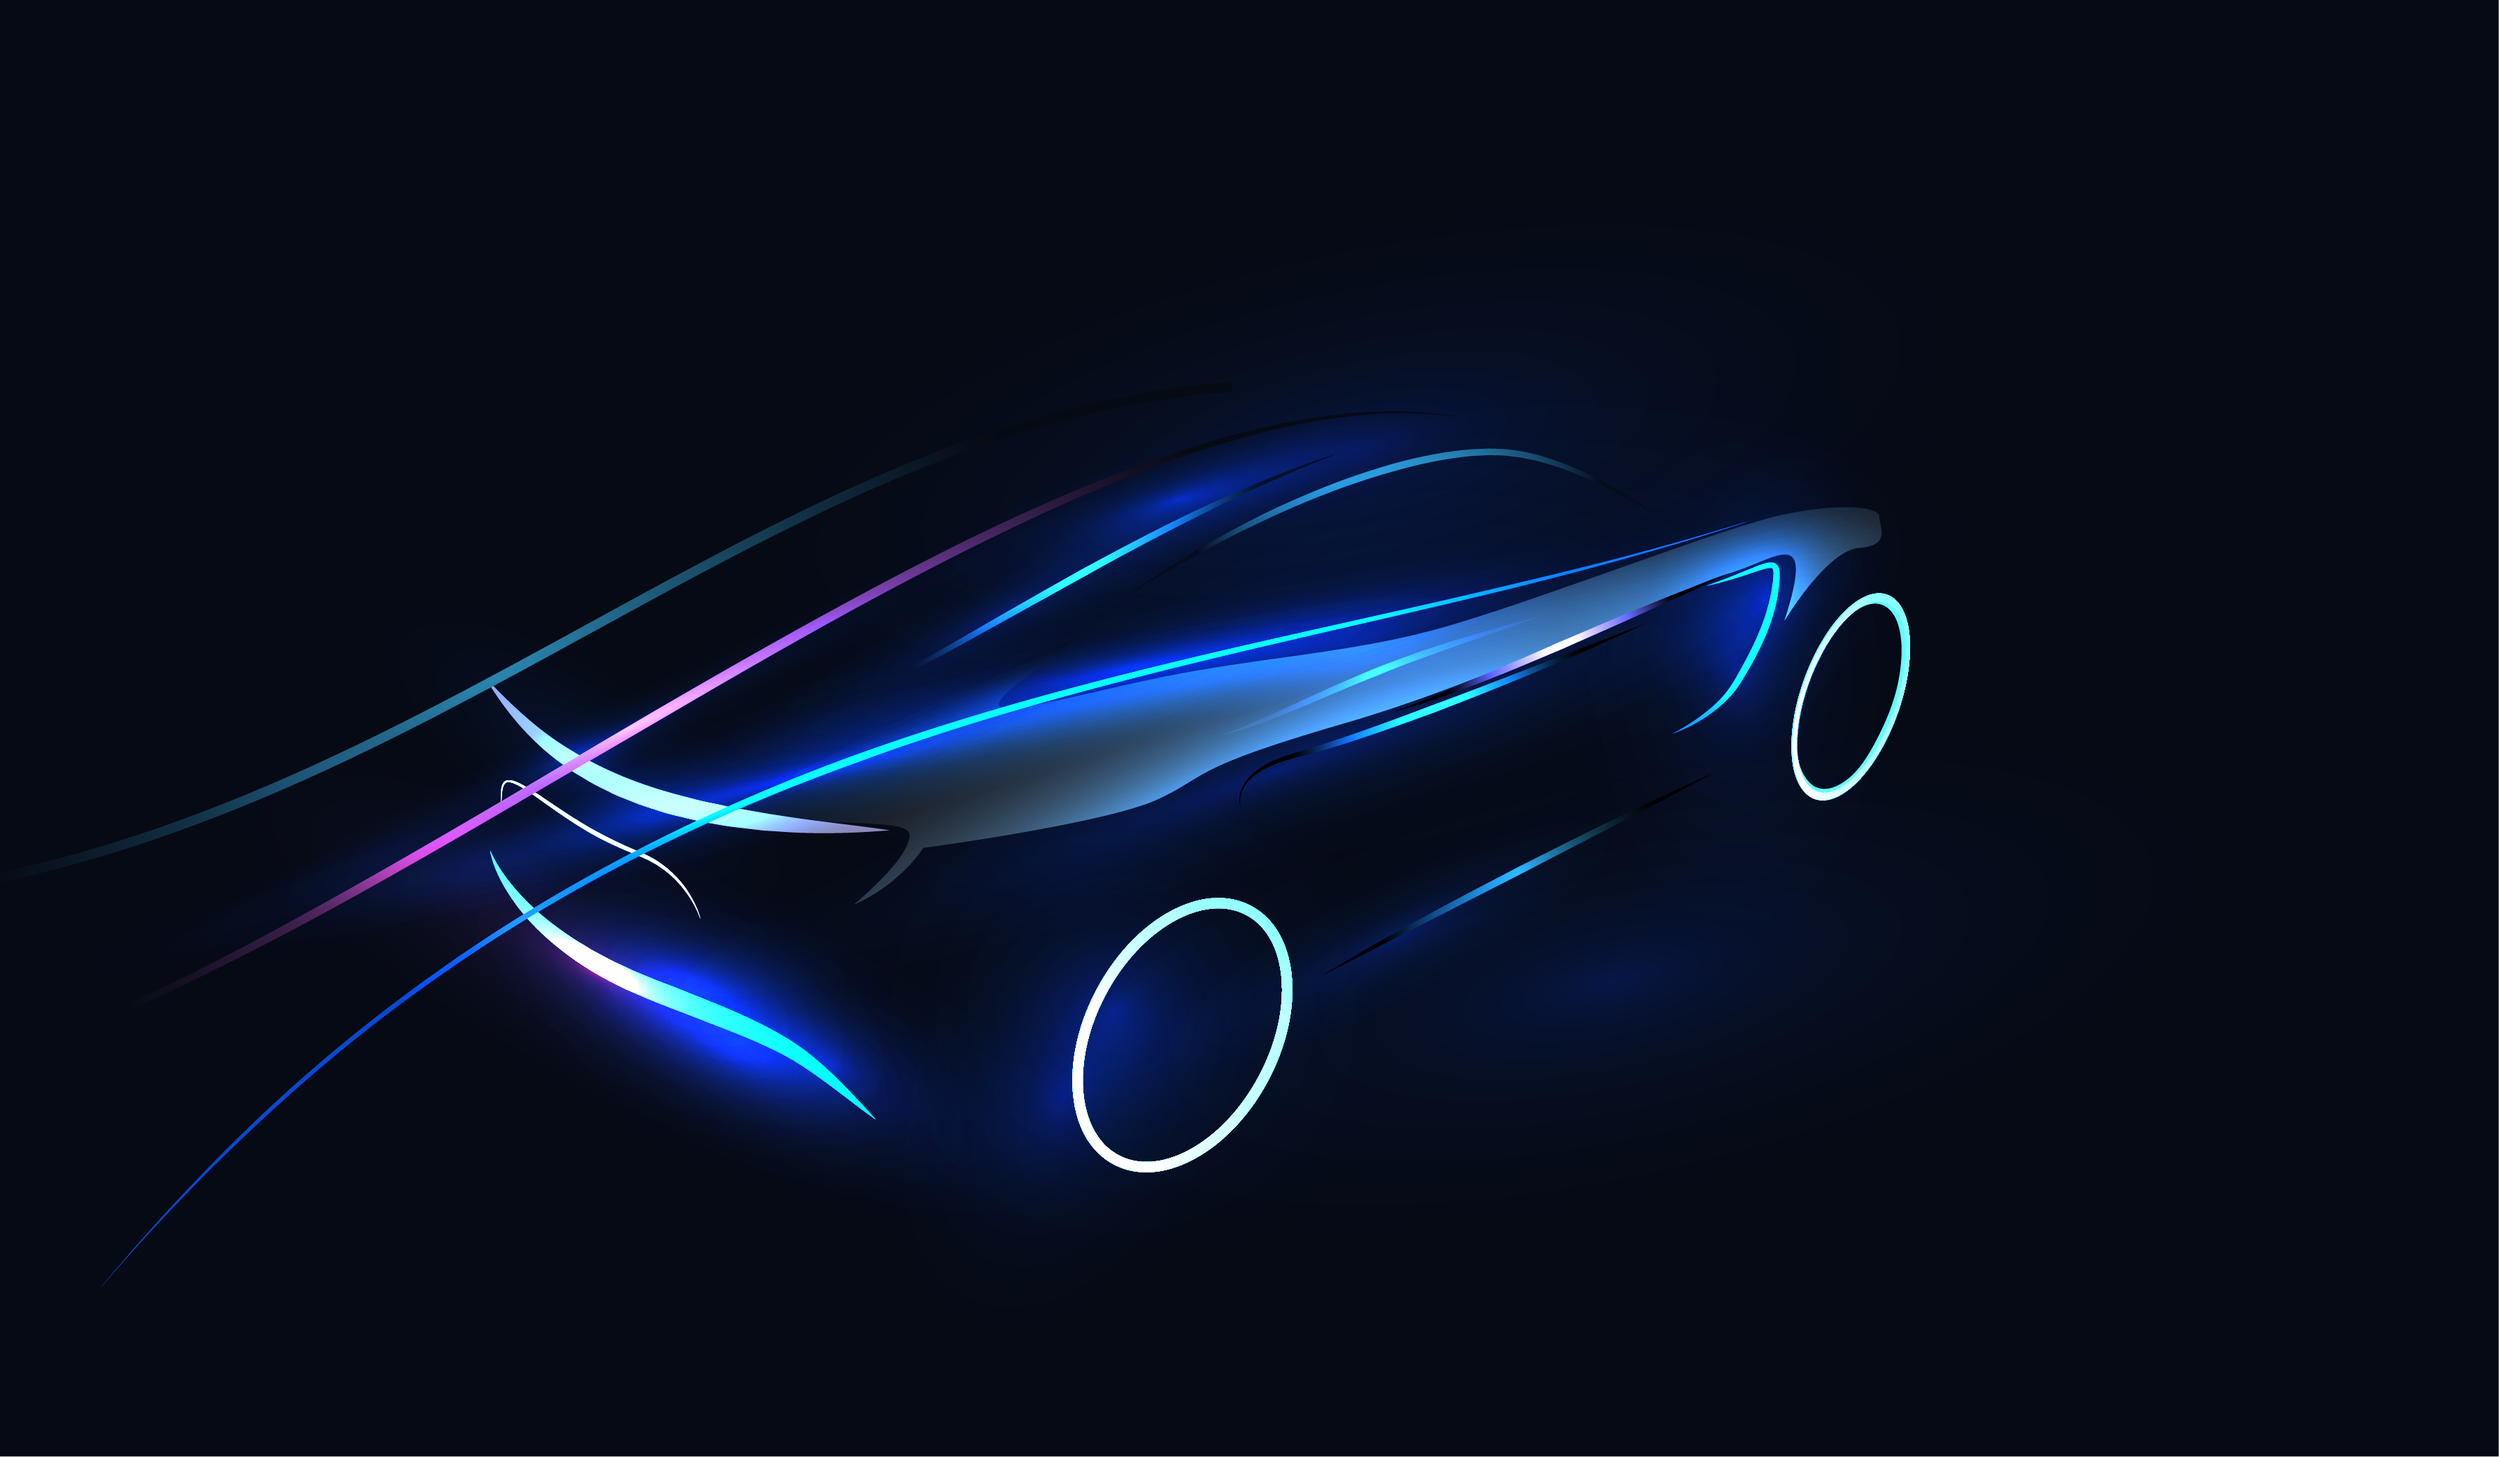
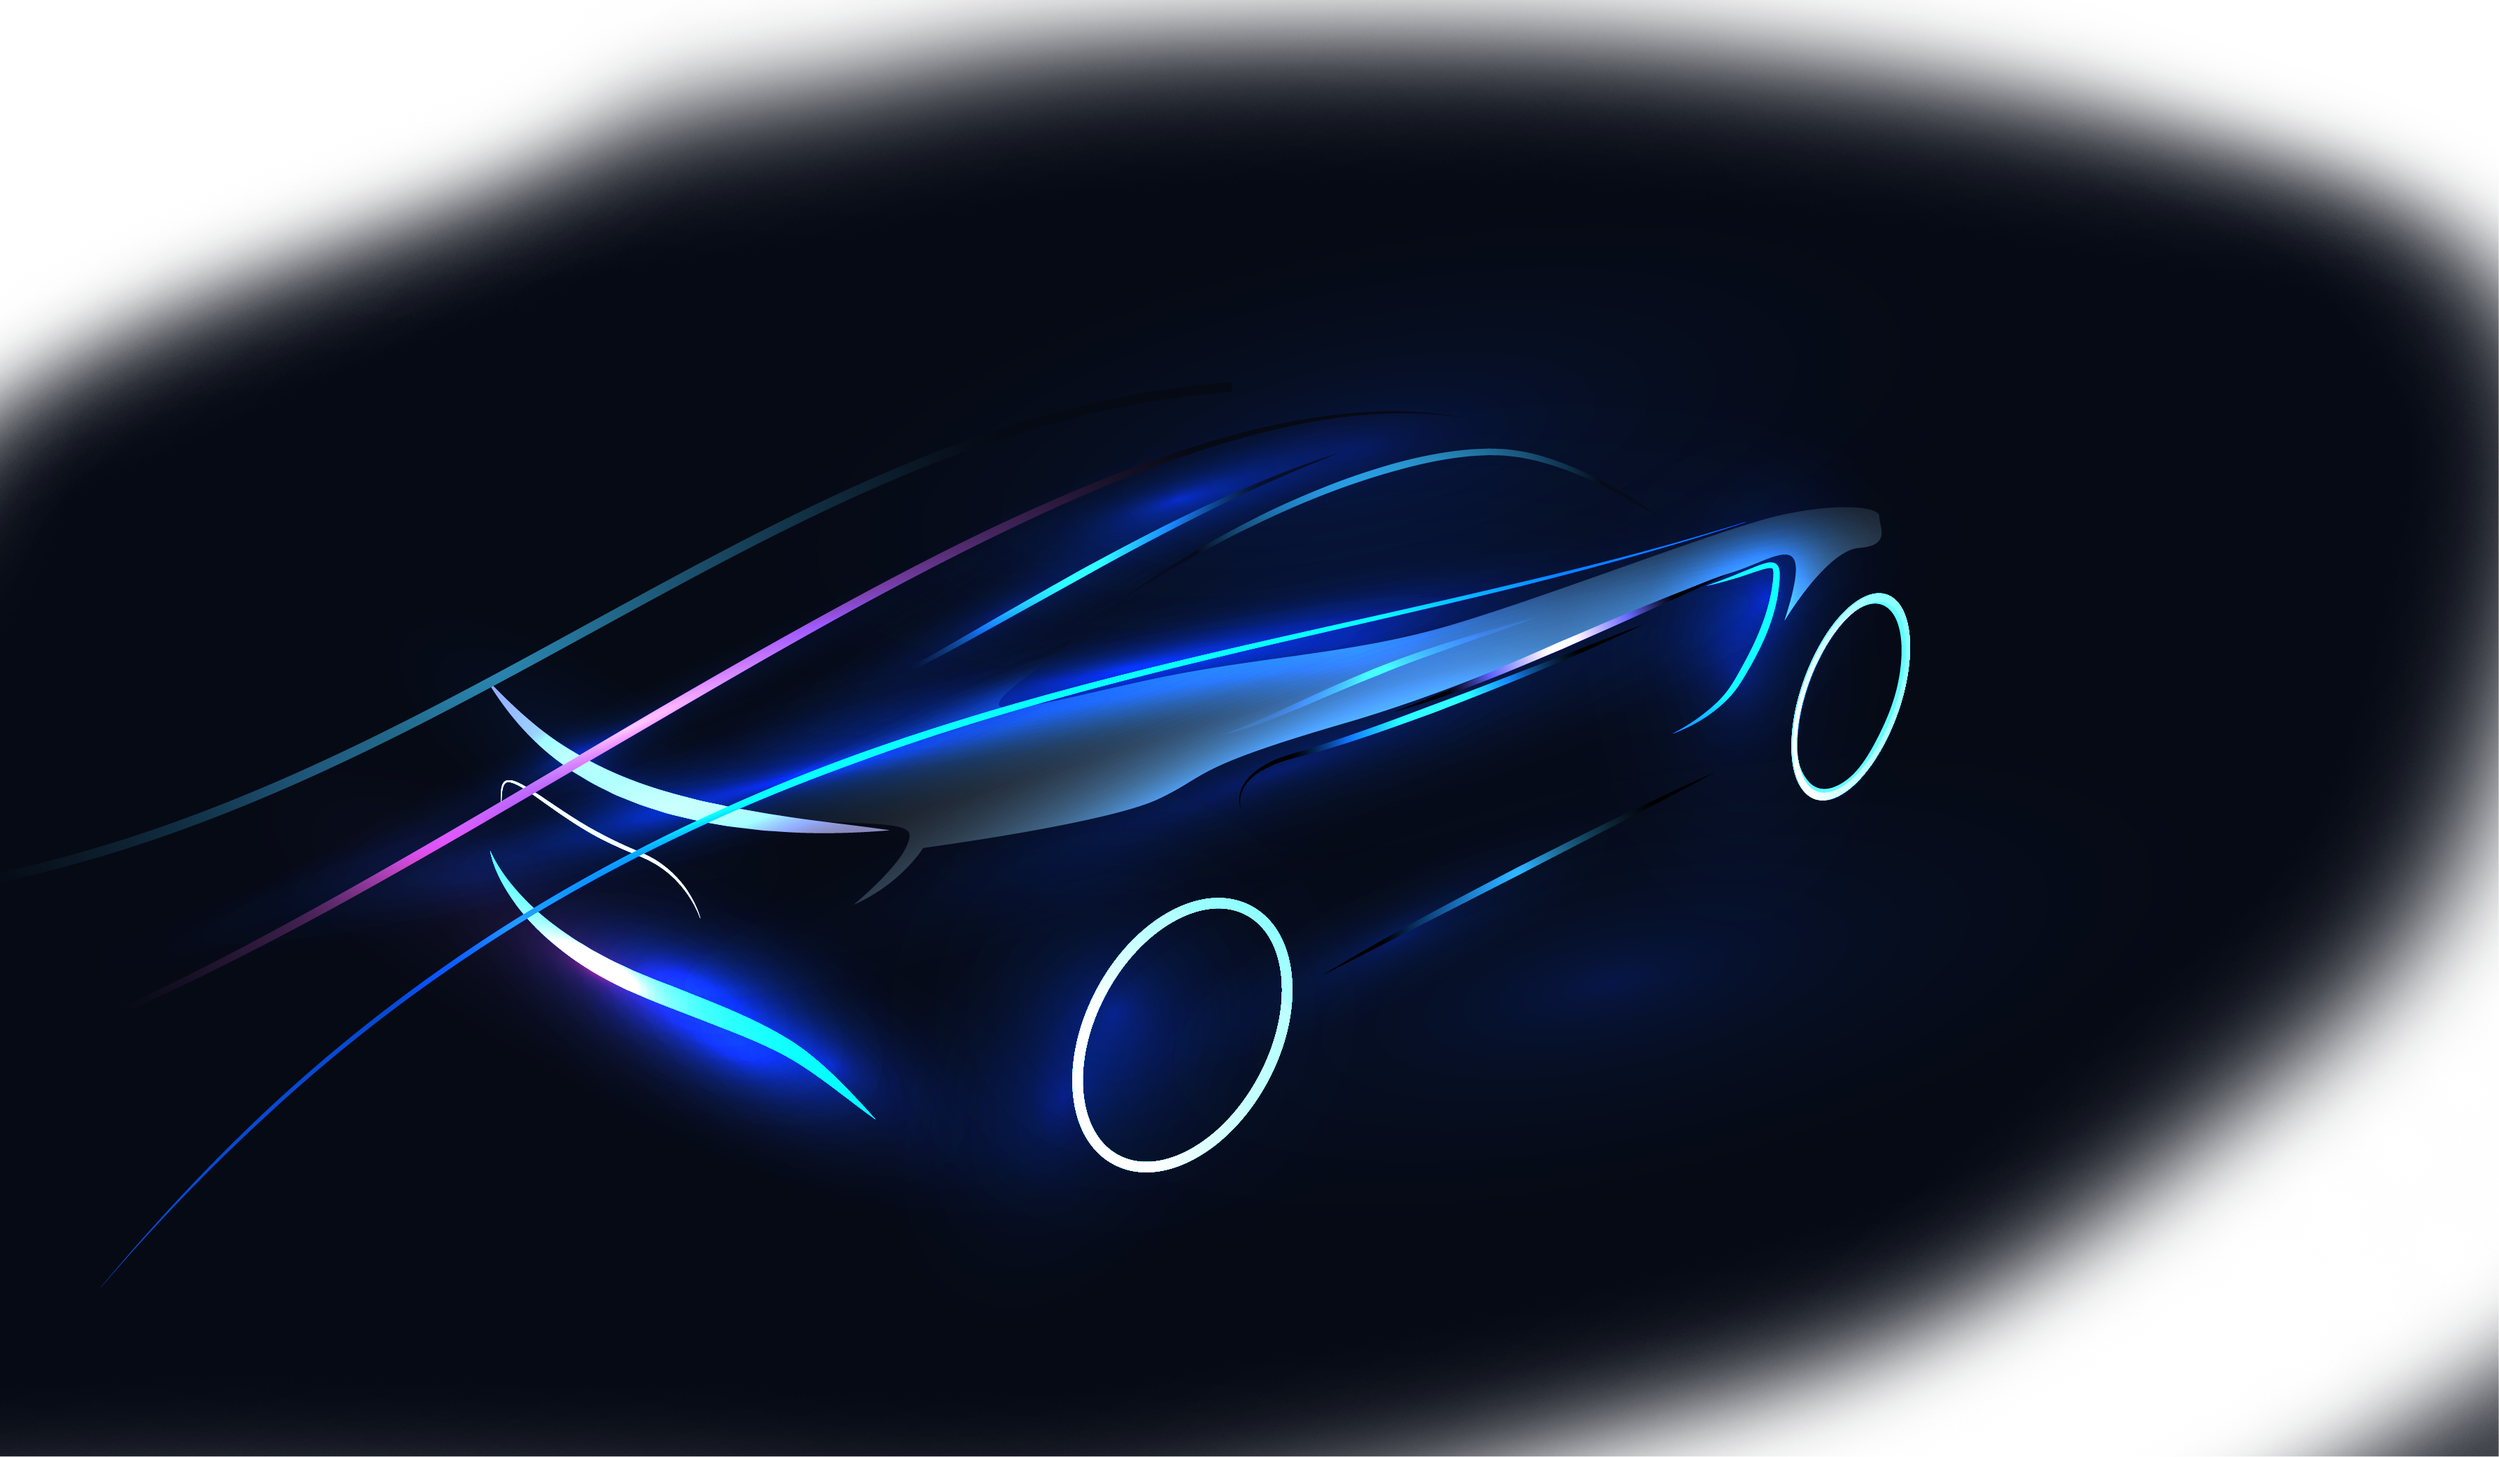
index.php 4:28PM

Changed region(s): [[0.0, 0.0, 1.0, 1.0], [0.0621, 0.9981, 0.1243, 1.0]]

diff --git a/sass/app.scss b/sass/app.scss
@@ -11,7 +11,8 @@ html,body{
     margin: 0;
     padding: 0;
     box-sizing: border-box;
-    background-color: $background-color;
+    background-image: url(/img/back.png);
+    background-size: 120%;
     width: 100%;
     height: 100%;
   }
@@ -40,6 +41,21 @@ html,body{
             background-color: #8cffd2;
             border-radius: 100%;
             box-shadow: 0 0 8px lime, 0 0 8px lime, 0 0 8px lime;
+            animation: animlight 3s infinite;
+        }
+
+        @keyframes animlight{
+            0%{
+                box-shadow: 0 0 8px lime, 0 0 8px lime, 0 0 8px lime;
+            }
+
+            50%{
+                box-shadow: 0 0 0px lime, 0 0 0px lime, 0 0 0px lime;
+            }
+
+            100%{
+                box-shadow: 0 0 8px lime, 0 0 8px lime, 0 0 8px lime;
+            }
         }
     }
 
@@ -69,6 +85,7 @@ html,body{
     display: flex;
     justify-content: center;
     align-items: center;
+    overflow: hidden;
 
 
 
@@ -120,7 +137,10 @@ html,body{
         }
         .img_car img{
             max-height: 50vh;
+          
         }
+
+       
     }
   }
   

diff --git a/app.css/app.css b/app.css/app.css
@@ -6,7 +6,8 @@ html, body {
   margin: 0;
   padding: 0;
   box-sizing: border-box;
-  background-color: #070a13;
+  background-image: url(/img/back.png);
+  background-size: 120%;
   width: 100%;
   height: 100%;
 }
@@ -33,6 +34,18 @@ header .connect_status .light {
   background-color: #8cffd2;
   border-radius: 100%;
   box-shadow: 0 0 8px lime, 0 0 8px lime, 0 0 8px lime;
+  animation: animlight 3s infinite;
+}
+@keyframes animlight {
+  0% {
+    box-shadow: 0 0 8px lime, 0 0 8px lime, 0 0 8px lime;
+  }
+  50% {
+    box-shadow: 0 0 0px lime, 0 0 0px lime, 0 0 0px lime;
+  }
+  100% {
+    box-shadow: 0 0 8px lime, 0 0 8px lime, 0 0 8px lime;
+  }
 }
 
 .user {
@@ -51,6 +64,7 @@ header .connect_status .light {
   display: flex;
   justify-content: center;
   align-items: center;
+  overflow: hidden;
 }
 .container .content {
   padding: 0px 200px 0px 200px;
